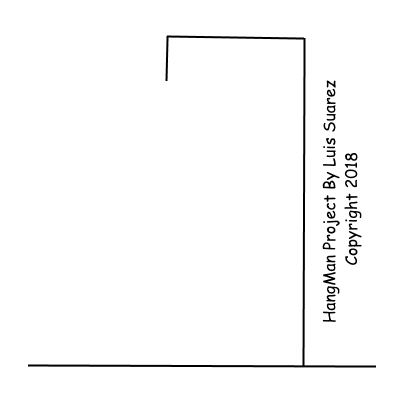
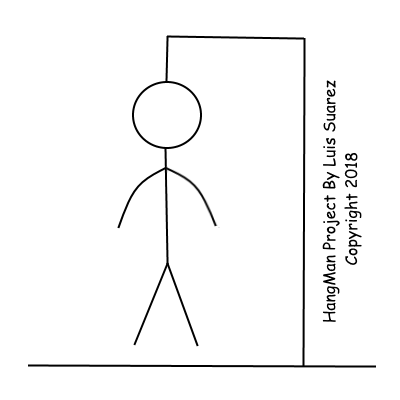
updated to modify HTML from JS

diff --git a/assets/javascript/game.js b/assets/javascript/game.js
@@ -8,10 +8,17 @@ var won =0;
 var lost = 0;
 var games = 0;
 
+// Log initial stats
 logStats();
+
+document.getElementById("guess").innerHTML = (" " + guessedWord); 
+
+// listen for key up and send to function in lowercase
 document.onkeyup = function(event) {
   letter = event.key.toLowerCase();
   
+  
+
   // If letter is in word or list, do nothing, else update tries left
   if (isInWord(letter) || isInGuessedList(letter)) {
   } else {
@@ -51,8 +58,26 @@ document.onkeyup = function(event) {
     games += 1;
   }
 
+  
+
   // Log stats and variable to the console
   logStats();
+
+  // Update HTML content
+  document.getElementById("won").innerHTML = ("" + won);  
+  document.getElementById("lost").innerHTML = ("" + lost);  
+  document.getElementById("games").innerHTML = ("" + games);
+  document.getElementById("remaining").innerHTML = ("" + tries);  
+  document.getElementById("list").innerHTML = ("Pressed: " + guessedList + " ");  
+  document.getElementById("guess").innerHTML = (" " + guessedWord); 
+  if(tries === 7){ document.getElementById("picture").src = "assets/images/7.png";}
+  if(tries === 6){ document.getElementById("picture").src = "assets/images/6.png";}
+  if(tries === 5){ document.getElementById("picture").src = "assets/images/5.png";}
+  if(tries === 4){ document.getElementById("picture").src = "assets/images/4.png";}
+  if(tries === 3){ document.getElementById("picture").src = "assets/images/3.png";}
+  if(tries === 2){ document.getElementById("picture").src = "assets/images/2.png";}
+  if(tries === 1){ document.getElementById("picture").src = "assets/images/1.png";}
+  if(tries === 0){ document.getElementById("picture").src = "assets/images/0.png";}
 };
 
 // Pick a random word from wordList

diff --git a/hangman.html b/hangman.html
@@ -19,12 +19,14 @@
             </div>
 
             <div class="panel">
-                <h4>Won: <span class="won">0</span> </h4>
-                <h4>Lost: <span class="lost">0</span> </h4>
-                <h4>Games: <span class="games">0</span>  </h4>
+                <h4>Won: <span id="won">0</span> </h4>
+                <h4>Lost: <span id="lost">0</span> </h4>
+                <h4>Games: <span id="games">0</span>  </h4>
+                <h4>Guesses Remaing: <span id="remaining">7</span>  </h4>
             </div>
-            <div class="picture">
-                <img src="assets/images/1.png" alt="Hangman">
+            <div class="guessingBlock"> <h3 id="list"></h3><h3>Guess:<span id="guess"></span></h3></div>
+            <div >
+                <img src="assets/images/7.png" alt="Hangman" id="picture" >
             </div>
         </div>
     </div>

diff --git a/assets/css/style.css b/assets/css/style.css
@@ -140,3 +140,14 @@ a{text-decoration: none}
     font-size: 40px;
 }
 
+.guessingBlock{
+    float:right;
+    border:solid black 3px;
+    padding: 20px;
+    width: 40%
+}
+#guess{
+    
+    letter-spacing: 1em;
+}
+
